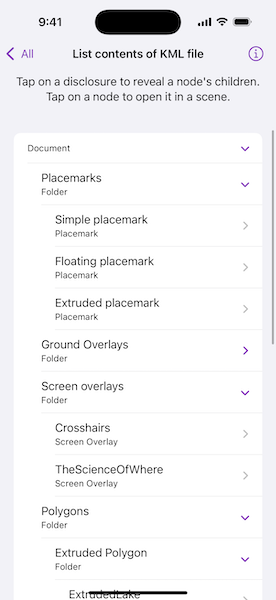
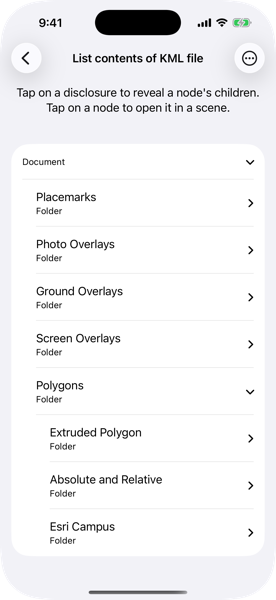
Use photo overlay data.

diff --git a/Shared/Samples/List contents of KML file/ListContentsOfKMLFileView.swift b/Shared/Samples/List contents of KML file/ListContentsOfKMLFileView.swift
@@ -102,7 +102,7 @@ private extension ListContentsOfKMLFileView {
         /// Sets up the KML dataset and adds it to the scene as layer.
         private func setUpKMLDataset() async throws {
             // Creates the dataset using a local ".kml" file in the bundle.
-            let kmlDataset = KMLDataset(name: "esri_test_data", bundle: .main)!
+            let kmlDataset = KMLDataset(name: "esri_kml_sample_data", bundle: .main)!
             try await kmlDataset.load()
             self.kmlDataset = kmlDataset
             

diff --git a/Shared/Samples/List contents of KML file/README.md b/Shared/Samples/List contents of KML file/README.md
@@ -29,12 +29,13 @@ The contents of the KML file are shown in a tree. Tap on a disclosure to reveal 
 * KMLLayer
 * KMLNetworkLink
 * KMLNode
+* KMLPhotoOverlay
 * KMLPlacemark
 * KMLScreenOverlay
 
 ## Offline data
 
-This sample uses the [esri_test_data](https://www.arcgis.com/home/item.html?id=da301cb122874d5497f8a8f6c81eb36e) KML file. It is downloaded from ArcGIS Online automatically.
+This sample uses the [Esri KML Sample Data](https://www.arcgis.com/home/item.html?id=b3ebedc3bed940fa985d824d55c44a2f) KML file. It is downloaded from ArcGIS Online automatically.
 
 ## Tags
 
